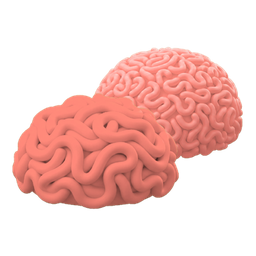
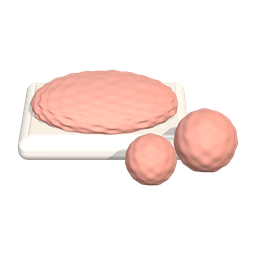
간 고기 대표 그림 다시: 꼬불꼬불한 결 대신 다짐육 팩 + 완자
Claude-Session: https://claude.ai/code/session_01MYGhb6R2QXY6quyyhQiczg

diff --git a/public/sw.js b/public/sw.js
@@ -3,7 +3,7 @@
 // - 그림·스크립트 등: 저장해 둔 것 먼저 (빌드 파일 이름이 바뀌므로 오래된 것이 남지 않음)
 // - /api/ (AI 연결 서버)는 저장하지 않는다
 
-const CACHE = 'fridge-planner-v3'; // 2026-11-09: 라면·종류별 대표 그림을 바꿔서 올림 (같은 파일 이름이라 예전 그림이 남지 않게)
+const CACHE = 'fridge-planner-v4'; // 2026-11-09: 대표 그림(간 고기)을 바꿔서 올림 (같은 파일 이름이라 예전 그림이 남지 않게)
 
 self.addEventListener('install', () => self.skipWaiting());
 self.addEventListener('activate', (e) => {
